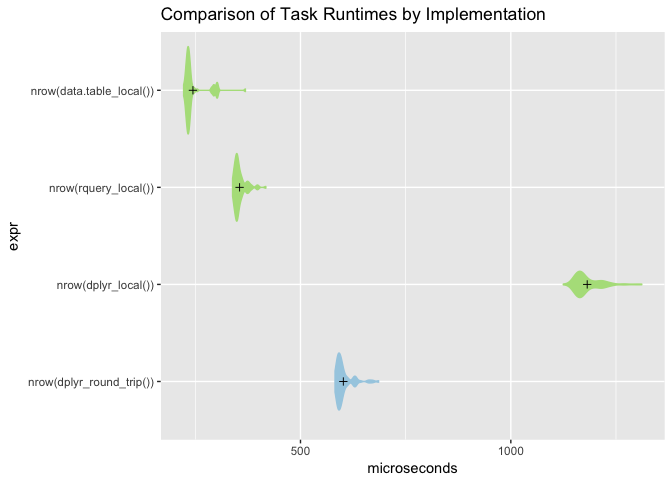
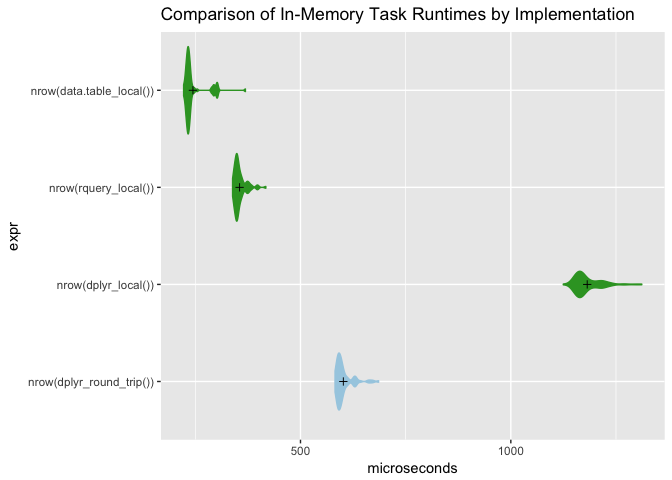
reorg

diff --git a/extras/plotexample.md b/extras/plotexample.md
@@ -8,8 +8,11 @@ timings = readRDS("qtimings.RDS")
 timings$expr <- as.character(timings$expr)
 
 # colors
-highlightcolor = "#b2df8a"
+highlightcolor = "#33a02c"
 backgroundcolor = "#a6cee3"
+reruncolor = "#b2df8a"
+greycolor = "darkgrey"
+
 
 runs <- c("nrow(data.table_local())", 
           "nrow(rquery_local())",
@@ -22,10 +25,31 @@ colormap = runs := c(highlightcolor,
 
 tr <- timings[timings$expr %in% runs, , drop=FALSE]
 tr$expr <- factor(tr$expr, levels = rev(runs))
-plotbenchmark(tr, colormap, "Comparison of Task Runtimes by Implementation")
+plotbenchmark(tr, colormap, "Comparison of In-Memory Task Runtimes by Implementation")
 ```
 
 ![](plotexample_files/figure-markdown_github/unnamed-chunk-1-1.png)
+
+``` r
+runs <- c("nrow(data.table_local())", 
+          "nrow(rquery_local())",
+          "rquery_database_count()",
+          "nrow(dplyr_local())",
+          "nrow(dplyr_round_trip())",
+          "dplyr_database_count()")
+colormap = runs := c(greycolor,
+                     greycolor,
+                     highlightcolor,
+                     greycolor,
+                     greycolor,
+                     highlightcolor)
+
+tr <- timings[timings$expr %in% runs, , drop=FALSE]
+tr$expr <- factor(tr$expr, levels = rev(runs))
+plotbenchmark(tr, colormap, "Comparison of Pure Database Task Runtimes by Implementation")
+```
+
+![](plotexample_files/figure-markdown_github/unnamed-chunk-1-2.png)
 
 ``` r
 followups <- c("nrow(rquery_local())",
@@ -36,13 +60,13 @@ followups <- c("nrow(rquery_local())",
                "dplyr_database_count()")     
 colormap = followups := c(highlightcolor,
                           backgroundcolor,
-                          backgroundcolor,
+                          reruncolor,
                           highlightcolor,
                           backgroundcolor,
-                          backgroundcolor)
+                          reruncolor)
 tf <- timings[timings$expr %in% followups, , drop=FALSE]
 tf$expr <- factor(tf$expr, levels = rev(followups))
 plotbenchmark(tf, colormap, "Breakdown of Transport Costs")
 ```
 
-![](plotexample_files/figure-markdown_github/unnamed-chunk-1-2.png)
+![](plotexample_files/figure-markdown_github/unnamed-chunk-1-3.png)
